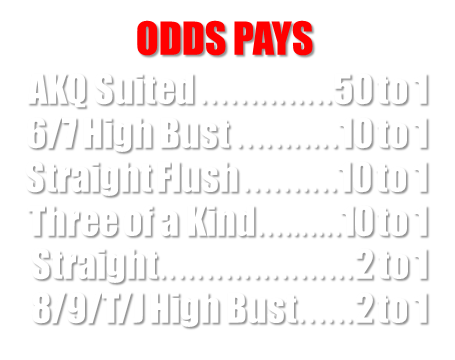
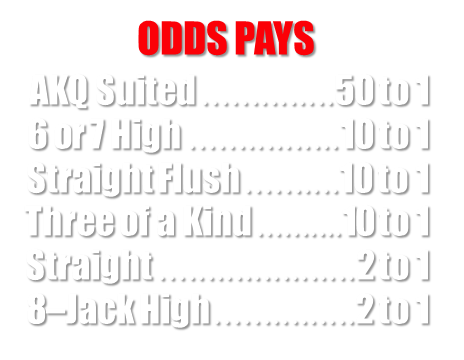
2020 Dec 12 update

diff --git a/parachutepokerdemo/dist/index.js b/parachutepokerdemo/dist/index.js
@@ -120,10 +120,10 @@ class GameScene extends Phaser.Scene {
         let gameGraphic = this.add.image(650, 15, "logo");
         gameGraphic.scale = 0.1;
         gameGraphic.setOrigin(0, 0);
-        let oddsGraphic = this.add.image(650 + 23, 225, "oddsPaytable");
+        let oddsGraphic = this.add.image(650 + 40, 225 - 15, "oddsPaytable");
         oddsGraphic.scale = 0.5;
         oddsGraphic.setOrigin(0, 0);
-        let mainGraphic = this.add.image(628, 435, "mainGamePaytable");
+        let mainGraphic = this.add.image(628, 435 - 35, "mainGamePaytable");
         mainGraphic.scale = 0.5;
         mainGraphic.setOrigin(0, 0);
         // Creates the shoe object
@@ -234,7 +234,7 @@ class GameScene extends Phaser.Scene {
         this._helpButton = new Button({
             scene: this,
             style: AssetNames.BlueSmall,
-            caption: "HELP",
+            caption: "RULES",
             clickEvent: Emissions.HelpScreen,
             x: 952,
             y: 30,
@@ -505,11 +505,11 @@ class GameScene extends Phaser.Scene {
                 }
                 else if (playerRank == ThreeCardPokerRank.NoPair) {
                     if (highCardRank <= 5) {
-                        bonusAnnotation = "Odds pays 10:1 for 6/7 high bust";
+                        bonusAnnotation = "Odds pays 10:1 for 6/7 high";
                         payout = 10;
                     }
                     else if (highCardRank <= 9) {
-                        bonusAnnotation = "Odds pays 2:1 for 8/9/T/J high bust";
+                        bonusAnnotation = "Odds pays 2:1 for 8/9/T/J high";
                         payout = 2;
                     }
                 }
@@ -576,10 +576,10 @@ class GameScene extends Phaser.Scene {
                 }
                 else {
                     if (this._bustPayout == 2) {
-                        this.addCommentaryField("Bust wager pays 2:1");
+                        this.addCommentaryField("Jump wager pays 2:1");
                     }
                     else if (this._bustPayout == -1) {
-                        this.addCommentaryField("Bust wager loses");
+                        this.addCommentaryField("Jump wager loses");
                     }
                     this.resolvePayout(this._bustSpot, this._bustPayout, true, true);
                 }
